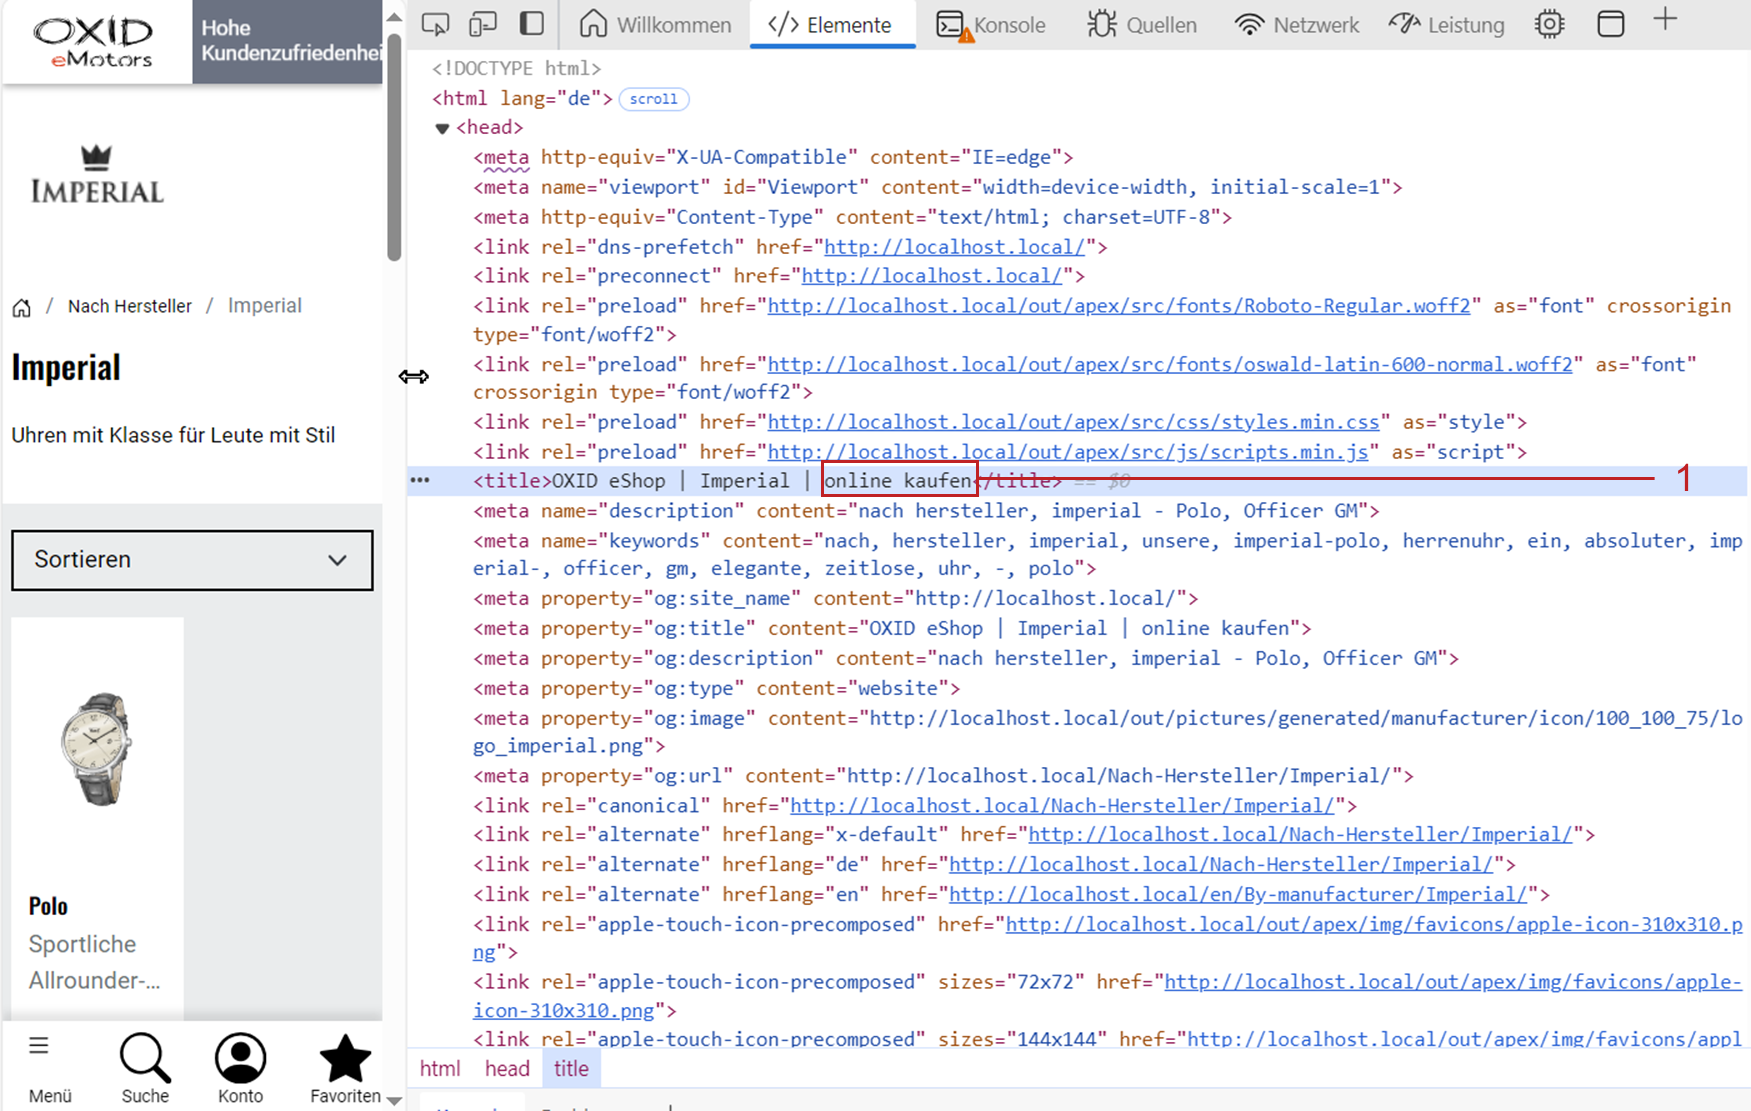
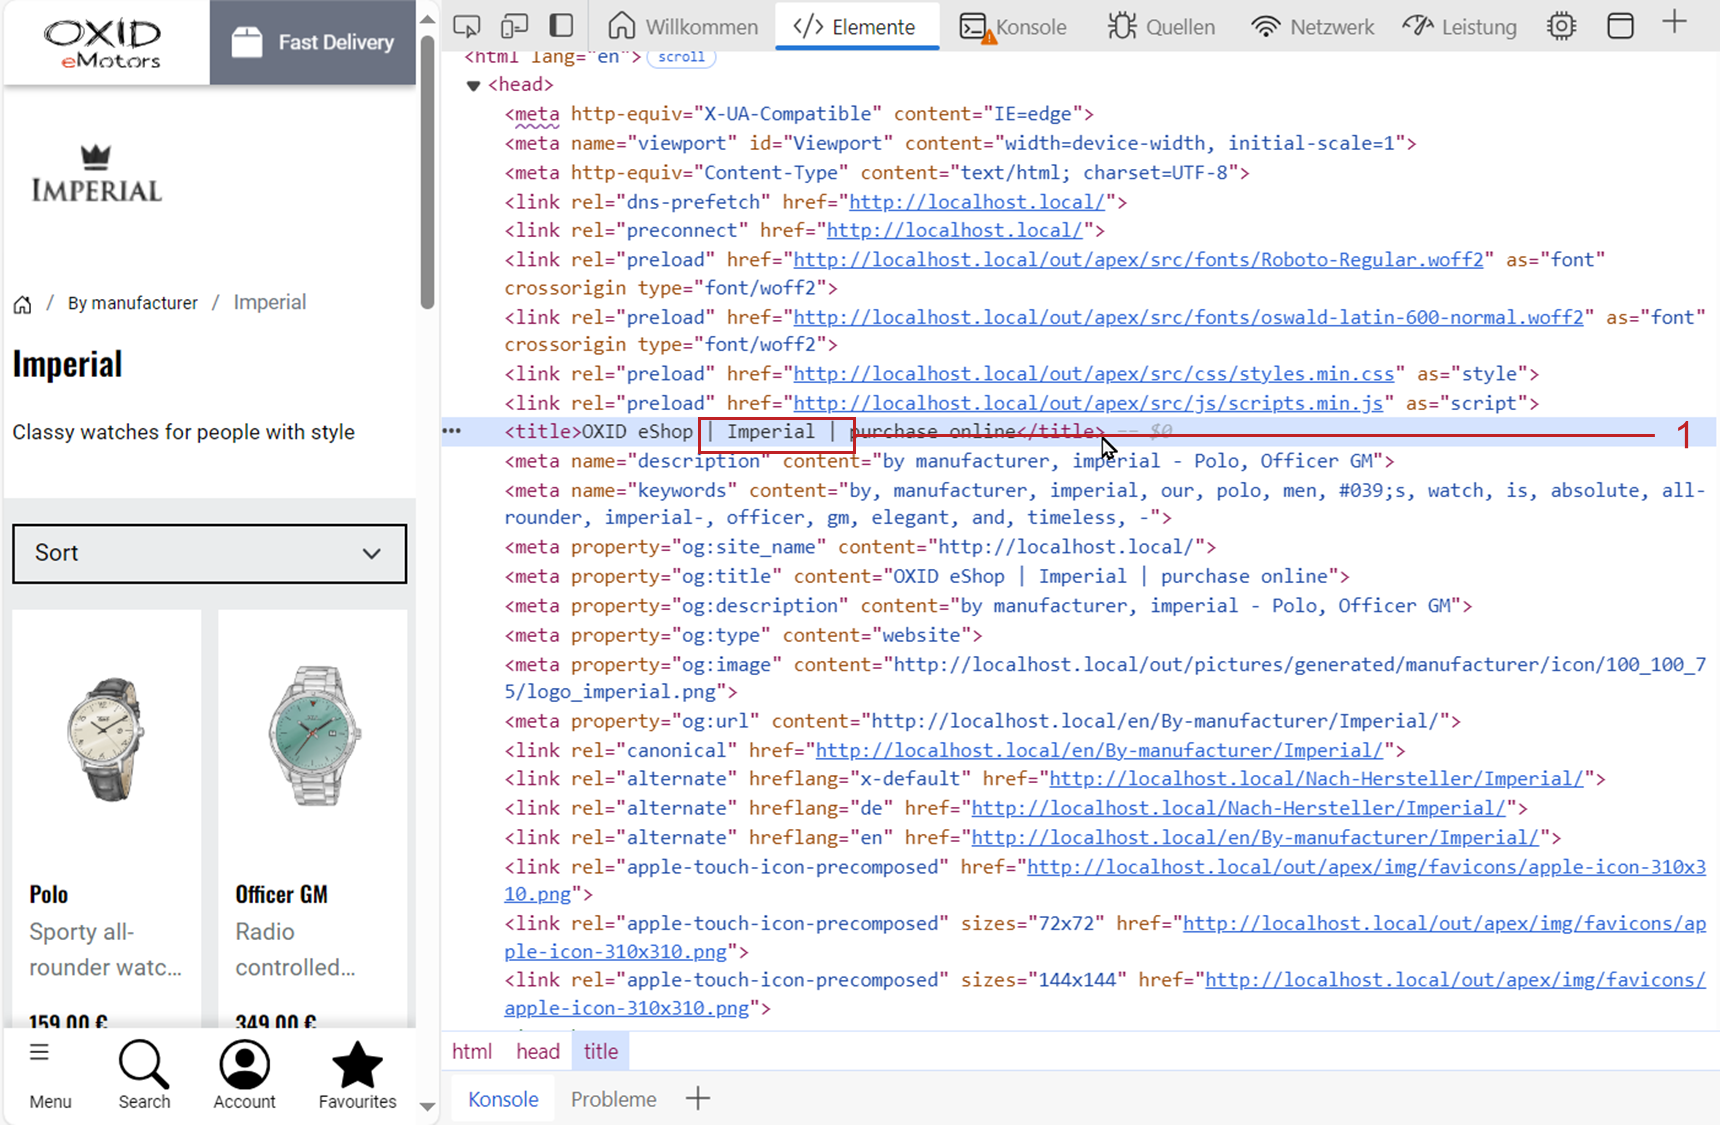
OXDEV-7034: einrichtung/lieferanten/registerkarte-seo refactored -- EN

diff --git a/setup/distributors/seo-tab.rst b/setup/distributors/seo-tab.rst
@@ -1,33 +1,62 @@
 SEO tab
 =======
 
-The distributor’s :guilabel:`SEO` tab contains information and settings that are relevant to search engines.
+Use the :guilabel:`SEO` tab (:ref:`oxbagg01`) to configure the distributor’s SEO settings and improve the visibility of their page in search engines.
 
-.. image:: ../../media/screenshots/oxbagg01.png
-   :alt: Distributors - SEO tab
-   :height: 343
+* Define a speaking SEO URL so the distributor page is easier to find.
+* Add a meaningful meta title and meta description to increase the click-through rate in search results.
+* Enter relevant keywords (meta keywords) to ensure the page appears for relevant search queries.
+* Fix the SEO URL to prevent unwanted changes and reduce duplicate content.
+* Use the language selection to manage SEO data for each active shop language individually.
+
+.. _oxbagg01:
+
+.. figure:: ../../media/screenshots/oxbagg01.png
+   :alt: Distributors – SEO tab
    :width: 650
+   :class: with-shadow
 
-The language selection list at the bottom of the input area allows you to edit distributor’s information and settings in another active language.
+   Fig.: Distributors – SEO tab
+
+The language selection list at the bottom of the input area allows you to edit the SEO information for any other active language.
 
 :guilabel:`Fixed URL`
-   If distributor’s title changes, the SEO URL will be recalculated. Check the box to disable this feature for the distributor’s URL. The existing SEO URL will remain unchanged.
+   If the distributor’s title changes, the SEO URL will be recalculated.
+
+   Check this box to prevent automatic updates of the URL. The current SEO URL will remain unchanged.
 
 :guilabel:`Show SEO Suffix in Category`
-   This setting determines whether the title suffix will be displayed in the page title. If the overview of all products of this distributor is called up via the URL, the page title will also contain the title suffix defined under :menuselection:`Master Settings --> Core Settings --> SEO --> Title Suffix`. Demo shop example:\<title\>OXID Surf and Kite Shop | www.true-fashion.com | purchase online\</title\>. More information can be found in :doc:`SEO settings <../../configuration/seo-settings>`.
+   This setting determines whether the title suffix is shown in the page title (title suffix example from a manufacturer page: :ref:`oxbagg02`, Pos. 1).
 
-By default, the overview of all the distributor’s products is not displayed in the front end.
+   The overview of all products of a distributor is not displayed in the front end by default.
+
+   For more information on defining the title suffix, see :doc:`SEO settings <../../configuration/seo-settings>`.
+
+.. _oxbagg02:
+
+.. figure:: ../../media/screenshots/oxbagd02.png
+   :alt: Show title suffix (example: Manufacturer)
+   :width: 650
+   :class: with-shadow
+
+   Fig.: Show title suffix (example: Manufacturer)
 
 :guilabel:`SEO URL`
-   Shows the displayed distributor’s URL which can also be changed and fixed.
+   The distributor’s SEO URL is displayed here. You can change or fix the URL.
 
 :guilabel:`META Keywords`
-   The keywords evaluated by search engines are integrated into the HTML source code (meta keywords). If you leave this field empty, they will be generated automatically, e.g. from the distributor’s title, the category (by distributor), and the search terms of the assigned products.
+   These keywords, evaluated by search engines, are embedded in the HTML source code as meta keywords.
+
+   If you leave this field empty, keywords will be generated automatically from the distributor title, the category (by distributor), and the search terms of the assigned products.
 
 :guilabel:`META Description`
-   This descriptive text is included in the HTML source code (meta description). It is displayed in the search results by many search engines. If you leave this field empty, the description will be generated automatically from the distributor’s title, the category (By distributor), and the titles of the assigned products.
+   This descriptive text is added to the HTML source code (meta description) and displayed by many search engines in the search results.
+
+   If you do not enter a description, it will be generated automatically from the distributor title, the category (by distributor), and the titles of the assigned products.
 
 :guilabel:`In Language`
-   Select the desired language from the list for which you want to edit the SEO information and settings.
+   Select the desired language from the list to edit the SEO information and settings for that language.
 
 .. Intern: oxbagg, Status:, F1: vendor_seo.html
+
+
